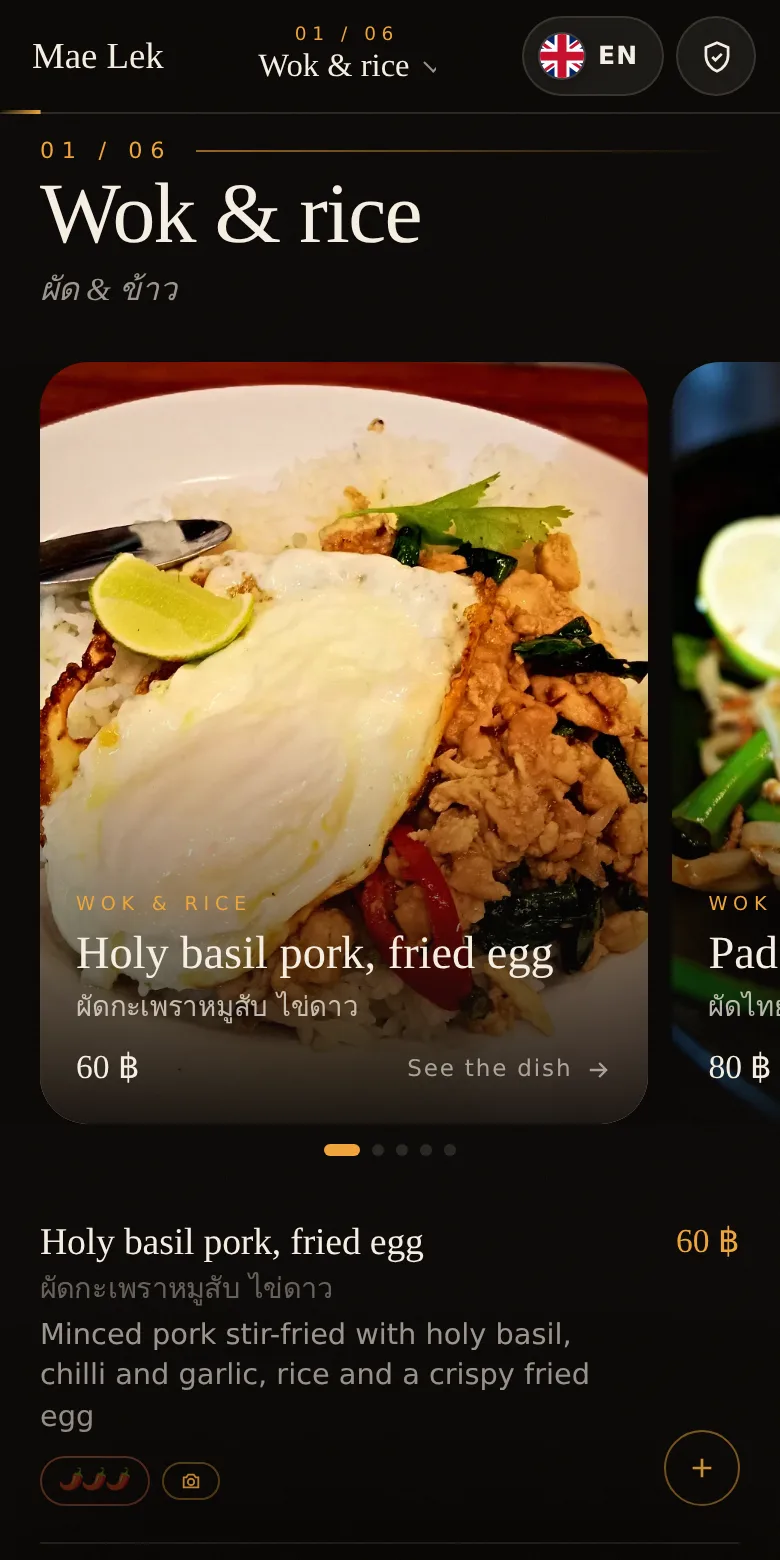
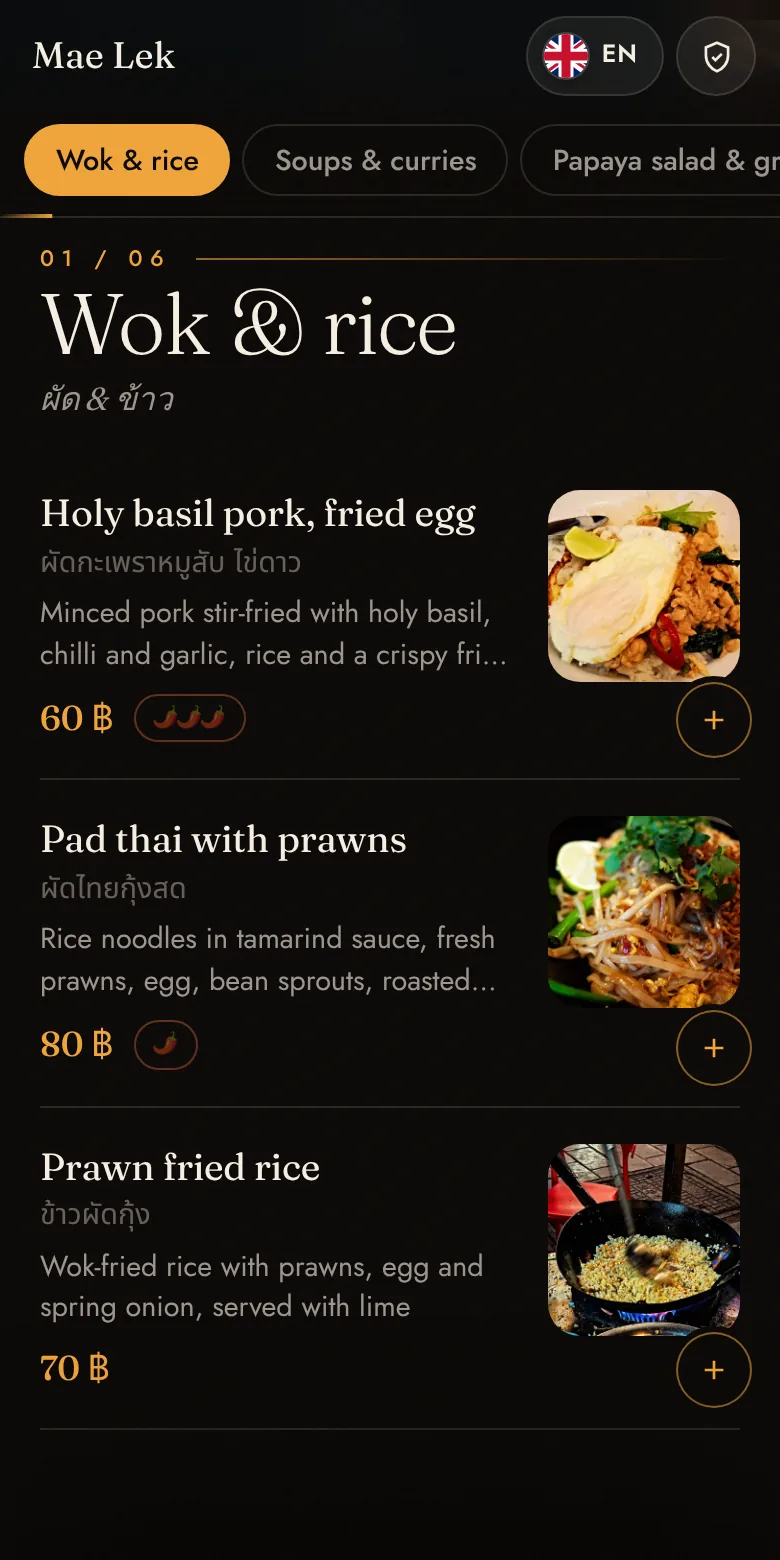
Menus QR : mise en page rangée (onglets des catégories, une ligne par plat avec sa photo carrée)
- plus de carrousels de grandes photos dans chaque catégorie ni d'icône photo sous les plats
- barre d'onglets fixe sous l'en-tête, l'onglet actif suit la lecture, toucher = aller à la catégorie
- chaque plat : nom, nom thaï, description sur 2 lignes, prix et piment ; photo carrée à droite quand elle existe ; la grande photo s'ouvre toujours en touchant le plat
- capture « après » du site thaï refaite avec le nouveau menu

Claude-Session: https://claude.ai/code/session_01C1ey47aaS4Th7SGUvJQcLG

diff --git a/menus/assets/menu.js b/menus/assets/menu.js
@@ -118,6 +118,11 @@
     return "<picture>" + (only ? '<source media="(min-width:760px)" srcset="' + w + '" sizes="680px">' : "") +
       '<img src="' + d.img + '-c-800.webp" srcset="' + c + '" sizes="(min-width:760px) 340px, 80vw" alt="" loading="lazy" decoding="async"></picture>';
   }
+  // square thumbnail in the dish row (the 4:5 card crop, centred)
+  function thumb(d) {
+    var src = M.photoHD ? d.img + "-c-800.webp" : img(d.img, 640);
+    return '<span class="dish__ph"><img src="' + src + '" alt="" width="96" height="96" loading="lazy" decoding="async"></span>';
+  }
   function sheetPic(d) {
     if (!M.photoHD) return '<img src="' + img(d.img, 1280) + '" alt="' + esc(title(d)) + '">';
     return '<img src="' + d.img + '-w-1280.webp" srcset="' + d.img + "-w-1280.webp 1280w, " + d.img + '-w-2048.webp 2048w" sizes="(min-width:760px) 560px, 100vw" alt="' + esc(title(d)) + '">';
@@ -154,26 +159,15 @@
       '<button class="hd__ch" type="button" id="hdch" aria-label="' + esc(t("menu")) + '"><small></small><span></span></button>' +
       '<div class="hd__r"><button class="ib lb" type="button" data-open="lang" aria-label="' + esc(t("lang")) + " · " + (LN[lang] || lang) + '">' + flag(lang, "round") + "<span>" + (LS[lang] || lang) + "</span></button>" +
       '<button class="ib" type="button" data-open="alg" aria-label="' + esc(t("al")) + '">' + ICO.shield + '<span class="n' + (alg.length ? " on" : "") + '" id="algn">' + alg.length + "</span></button></div>" +
+      '<nav class="tabs" id="tabs" aria-label="' + esc(t("menu")) + '">' + M.sections.map(function (s, i) { return '<button type="button" data-go="' + s.id + '"' + (i ? "" : ' class="on"') + ">" + esc(tr(s.t)) + "</button>"; }).join("") + "</nav>" +
       '<i class="prog" id="prog"></i></header>');
     // chapters
     h.push("<main>");
     M.sections.forEach(function (s, si) {
-      var feat = s.items.filter(function (d) { return d.img; });
       h.push('<section class="ch" id="' + s.id + '" data-i="' + si + '"><div class="wrap">');
       h.push('<header class="ch__h rv"><p class="ch__no">' + String(si + 1).padStart(2, "0") + " / " + String(M.sections.length).padStart(2, "0") + '</p><h2 class="ch__t">' + esc(tr(s.t)) + "</h2>" +
         (lang !== ol && s.t[ol] ? '<p class="ch__o" lang="' + ol + '">' + esc(s.t[ol]) + "</p>" : "") + "</header>");
       if (si === 0) h.push('<p class="alb">' + esc(t("alb")) + "</p>");
-      if (feat.length) {
-        h.push('<div class="feat" data-feat>');
-        feat.forEach(function (d, fi) {
-          // desktop: two-column grid; with an odd count the first card spans both columns in landscape
-          var lead = feat.length === 1 || (fi === 0 && feat.length % 2 === 1);
-          h.push('<button type="button" class="card rv' + (lead ? " card--lead" : "") + '" data-dish="' + d.id + '">' + cardPic(d, lead) +
-            '<span class="card__b"><span class="card__k">' + esc(tr(s.t)) + '</span><span class="card__n">' + esc(title(d)) + "</span>" + (sub(d) ? '<span class="card__o" lang="' + ol + '">' + esc(sub(d)) + "</span>" : "") + '<span class="card__f"><span class="card__p">' + price(d.p) + '</span><span class="card__go">' + esc(t("see")) + " " + ICO.arrow.replace("<svg", '<svg width="14" height="14"') + "</span></span></span></button>");
-        });
-        h.push("</div>");
-        if (feat.length > 1) h.push('<div class="dots2" aria-hidden="true">' + feat.map(function (_, i) { return "<i" + (i ? "" : ' class="on"') + "></i>"; }).join("") + "</div>");
-      }
       h.push('<ul class="list">');
       s.items.forEach(function (d, i) { h.push(dishRow(d, i)); });
       h.push("</ul>");
@@ -198,12 +192,13 @@
 
   function dishRow(d, i) {
     var dd = desc(d), hs = hits(d), q = sel[d.id] || 0;
-    return '<li class="dish rv' + (hs.length ? " off" : "") + '" data-row="' + d.id + '" style="--d:' + Math.min(i * 0.04, 0.2).toFixed(2) + 's">' +
+    return '<li class="dish rv' + (d.img ? " has-ph" : "") + (hs.length ? " off" : "") + '" data-row="' + d.id + '" style="--d:' + Math.min(i * 0.04, 0.2).toFixed(2) + 's">' +
       '<button class="dish__o" type="button" data-dish="' + d.id + '" aria-label="' + esc(title(d)) + '"></button>' +
-      '<span class="dish__n">' + esc(title(d)) + (sub(d) ? '<small lang="' + ol + '">' + esc(sub(d)) + "</small>" : "") + '</span><span class="dish__p">' + price(d.p) + "</span>" +
+      '<span class="dish__txt"><span class="dish__n">' + esc(title(d)) + (sub(d) ? '<small lang="' + ol + '">' + esc(sub(d)) + "</small>" : "") + "</span>" +
       (dd ? '<span class="dish__d">' + esc(dd) + "</span>" : "") +
-      '<span class="dish__m">' + hot(d) + (d.img ? '<span class="chip ph">' + ICO.cam + "</span>" : "") +
-      (hs.length ? '<span class="chip warn">' + esc(t("contains")) + " · " + hs.map(function (n) { return AI[n - 1]; }).join(" ") + "</span>" : "") + "</span>" +
+      '<span class="dish__m"><span class="dish__p">' + price(d.p) + "</span>" + hot(d) +
+      (hs.length ? '<span class="chip warn">' + esc(t("contains")) + " · " + hs.map(function (n) { return AI[n - 1]; }).join(" ") + "</span>" : "") + "</span></span>" +
+      (d.img ? thumb(d) : "") +
       '<button class="add' + (q ? " on" : "") + '" type="button" data-add="' + d.id + '" aria-label="' + esc(t("add")) + '">' + ICO.plus + '<span class="q">' + (q || "") + "</span></button></li>";
   }
 
@@ -219,13 +214,19 @@
       var max = document.documentElement.scrollHeight - H;
       prog.style.setProperty("--p", Math.max(0, Math.min(1, (y - H * 0.5) / Math.max(1, max - H * 0.5))).toFixed(3));
       var c = 0;
-      chs.forEach(function (s, i) { if (s.getBoundingClientRect().top < 120) c = i; });
+      chs.forEach(function (s, i) { if (s.getBoundingClientRect().top < 170) c = i; });
       if (c !== cur) {
         cur = c;
         var s = M.sections[c];
         hdch.querySelector("small").textContent = String(c + 1).padStart(2, "0") + " / " + String(M.sections.length).padStart(2, "0");
         hdch.querySelector("span").textContent = tr(s.t);
         hdch.classList.remove("swap"); void hdch.offsetWidth; hdch.classList.add("swap");
+        var tabs = document.getElementById("tabs"), on = tabs && tabs.children[c];
+        if (on) {
+          [].forEach.call(tabs.children, function (x) { x.classList.toggle("on", x === on); x.removeAttribute("aria-current"); });
+          on.setAttribute("aria-current", "true");
+          tabs.scrollTo({ left: on.offsetLeft - (tabs.clientWidth - on.offsetWidth) / 2, behavior: "smooth" });
+        }
       }
     };
     addEventListener("scroll", spyFn, { passive: true }); spyFn();
@@ -278,7 +279,7 @@
     }
     if (b.hasAttribute("data-areset")) { alg = []; saveAlg(); openSheet("alg"); return; }
     if (b.hasAttribute("data-q")) { add(b.getAttribute("data-q"), +b.getAttribute("data-d")); openSheet("sel"); return; }
-    if (b.hasAttribute("data-go")) { var g = document.getElementById(b.getAttribute("data-go")); closeSheet(); setTimeout(function () { scrollTo({ top: g.getBoundingClientRect().top + scrollY - 70, behavior: "smooth" }); }, 250); return; }
+    if (b.hasAttribute("data-go")) { var g = document.getElementById(b.getAttribute("data-go")); closeSheet(); setTimeout(function () { scrollTo({ top: g.getBoundingClientRect().top + scrollY - 118, behavior: "smooth" }); }, closeSheet && document.getElementById("sheet").classList.contains("on") ? 250 : 0); return; }
     if (b.hasAttribute("data-clear")) { sel = {}; saveSel(); refreshAdds(); openSheet("sel"); return; }
     if (b.hasAttribute("data-show")) { showWaiter(); return; }
     if (b.hasAttribute("data-spice")) { var k = b.getAttribute("data-spice"); spice = spice === k ? null : k; store.set(KEY + "-spice", spice || ""); b.parentNode.querySelectorAll("button").forEach(function (x) { x.setAttribute("aria-pressed", x === b && spice !== null); }); return; }

diff --git a/menus/assets/menu.css b/menus/assets/menu.css
@@ -308,3 +308,24 @@ body.alg .alb{display:block}
 .lgrid button[aria-pressed="true"] .flag{box-shadow:0 0 0 1px rgba(0,0,0,.2)}
 .lb{display:inline-flex;align-items:center;gap:7px;padding:0 12px 0 8px}
 @media (max-width:370px){.langs button{gap:7px;font-size:.98rem}.langs button .flag{width:20px;height:15px}}
+
+/* ── Tidy layout (2026-11-11): category tabs under the header, one clean row per dish with its square photo on the right ── */
+.hd__ch{visibility:hidden;pointer-events:none}
+.tabs{grid-column:1/-1;display:flex;gap:6px;overflow-x:auto;scrollbar-width:none;margin:4px -12px -2px;padding:2px 12px 4px;overscroll-behavior-x:contain}
+.tabs::-webkit-scrollbar{display:none}
+.tabs button{flex:none;min-height:36px;padding:0 15px;border-radius:99px;font:500 .9rem/1 var(--body);color:var(--mute);border:1px solid var(--line);background:transparent;white-space:nowrap;transition:background .3s,color .3s,border-color .3s}
+.tabs button.on{background:var(--accent);color:var(--bg);border-color:var(--accent)}
+.ch{scroll-margin-top:118px}
+.list{margin-top:18px}
+.dish{grid-template-columns:minmax(0,1fr) auto;gap:0 16px;padding:18px 0;align-items:start}
+.dish__txt{grid-column:1;grid-row:1;display:grid;gap:5px;min-width:0}
+.dish__d{grid-column:auto;display:-webkit-box;-webkit-line-clamp:2;-webkit-box-orient:vertical;overflow:hidden}
+.dish__m{grid-column:auto;margin-top:4px;gap:8px}
+.dish__p{text-align:left;font-size:1.08rem;margin-right:2px}
+.dish__ph{grid-column:2;grid-row:1;width:96px;height:96px;border-radius:16px;overflow:hidden;background:var(--line);transition:opacity .5s,filter .5s}
+.dish__ph img{display:block;width:100%;height:100%;object-fit:cover}
+.dish .add{grid-column:2;grid-row:1;align-self:center;justify-self:end}
+.dish.has-ph .add{align-self:end;margin:0 -6px -8px 0;background:var(--bg);box-shadow:0 0 0 3px var(--bg)}
+.dish.has-ph .add.on{background:var(--accent)}
+.dish.off .dish__ph{opacity:.3;filter:grayscale(1)}
+@media (min-width:760px){.dish__ph{width:112px;height:112px}.tabs{justify-content:center}}

diff --git a/nm/assets/js/menu-ba.js b/nm/assets/js/menu-ba.js
@@ -165,7 +165,7 @@
         '<div class="mbs__ba">' +
           '<figure class="mbs__col"><span class="mbs__tag mbs__tag--b">' + x.b + '</span><div class="mbs__pic mbs__pic--old"><img src="' + img + 'old-menu-th-520.webp" srcset="' + img + "old-menu-th-520.webp 520w, " + img + 'old-menu-th.webp 900w" sizes="(min-width: 760px) 320px, 44vw" alt="" loading="lazy" decoding="async" width="900" height="1125"></div><figcaption>' + x.bc + "</figcaption></figure>" +
           '<div class="mbs__mid">' + AR + '<figure class="mbs__qr"><span class="mbs__qrbox" id="mbsQr" role="img" aria-label="QR"></span><figcaption>' + x.q + "</figcaption></figure>" + AR + "</div>" +
-          '<figure class="mbs__col"><span class="mbs__tag mbs__tag--a">' + x.a + '</span><div class="mbs__pic mbs__phone"><img src="' + img + 'menu-after-en-390.webp" srcset="' + img + "menu-after-en-390.webp 390w, " + img + 'menu-after-en.webp 780w" sizes="(min-width: 760px) 300px, 44vw" alt="" loading="lazy" decoding="async" width="780" height="1560"></div><figcaption>' + x.ac + "</figcaption></figure>" +
+          '<figure class="mbs__col"><span class="mbs__tag mbs__tag--a">' + x.a + '</span><div class="mbs__pic mbs__phone"><img src="' + img + 'menu-after-en-390.webp?v=2" srcset="' + img + "menu-after-en-390.webp?v=2 390w, " + img + 'menu-after-en.webp?v=2 780w" sizes="(min-width: 760px) 300px, 44vw" alt="" loading="lazy" decoding="async" width="780" height="1560"></div><figcaption>' + x.ac + "</figcaption></figure>" +
         "</div>" +
         '<ol class="mbs__steps">' + x.s.map(function (s, i) { return '<li><b class="mbs__n">' + (i + 1) + "</b><span><strong>" + s[0] + "</strong>" + s[1] + "</span></li>"; }).join("") + "</ol>" +
         '<p class="mbs__cta"><a class="btn btn--sun btn--lg" href="' + MAE + "?lang=" + (l === "fr" ? "fr" : "en") + '" target="_blank" rel="noopener"><span>' + x.cta + "</span></a></p></div>";

diff --git a/menus/mae-lek/index.html b/menus/mae-lek/index.html
@@ -12,11 +12,11 @@
 <link rel="preconnect" href="https://fonts.googleapis.com">
 <link rel="preconnect" href="https://fonts.gstatic.com" crossorigin>
 <link href="https://fonts.googleapis.com/css2?family=Fraunces:ital,opsz,wght@0,9..144,300;0,9..144,400;0,9..144,500;1,9..144,400&family=Jost:wght@400;500;600;700&family=Noto+Sans+Thai:wght@400;500;600;700&display=swap" rel="stylesheet">
-<link rel="stylesheet" href="../assets/menu.css?v=12">
+<link rel="stylesheet" href="../assets/menu.css?v=14">
 </head>
 <body>
 <div id="menu"><noscript><p style="padding:40px 20px;text-align:center">Mae Lek · Menu — please enable JavaScript or ask our staff.</p></noscript></div>
 <script src="menu.js?v=12"></script>
-<script src="../assets/menu.js?v=13"></script>
+<script src="../assets/menu.js?v=14"></script>
 </body>
 </html>

diff --git a/menus/giulivo/index.html b/menus/giulivo/index.html
@@ -12,11 +12,11 @@
 <link rel="preconnect" href="https://fonts.googleapis.com">
 <link rel="preconnect" href="https://fonts.gstatic.com" crossorigin>
 <link href="https://fonts.googleapis.com/css2?family=Fraunces:ital,opsz,wght@0,9..144,300;0,9..144,400;0,9..144,500;1,9..144,400&family=Jost:wght@400;500;600;700&family=Noto+Sans+Thai:wght@400;500;600&display=swap" rel="stylesheet">
-<link rel="stylesheet" href="../assets/menu.css?v=6">
+<link rel="stylesheet" href="../assets/menu.css?v=8">
 </head>
 <body>
 <div id="menu"><noscript><p style="padding:40px 20px;text-align:center">Giulivo · Menu — please enable JavaScript or ask our staff.</p></noscript></div>
 <script src="menu.js?v=6"></script>
-<script src="../assets/menu.js?v=7"></script>
+<script src="../assets/menu.js?v=8"></script>
 </body>
 </html>

diff --git a/nm/th-fr/index.html b/nm/th-fr/index.html
@@ -679,7 +679,7 @@ document.addEventListener("click",function(e){var t=e.target;var b=t&&t.closest?
 <script defer="" src="../assets/js/perf.js?v=20261016a"></script>
 <script defer="" src="../assets/js/nm-stats.js?v=20261008v"></script>
 <script defer="" src="../assets/js/thai-offers.js?v=20261110a"></script>
-<script defer="" src="../assets/js/menu-ba.js?v=20261111a"></script>
+<script defer="" src="../assets/js/menu-ba.js?v=20261111b"></script>
 <script defer="" src="../assets/js/th-bar.js?v=20261111a"></script>
 </body>
 </html>

diff --git a/nm/th/index.html b/nm/th/index.html
@@ -706,7 +706,7 @@ document.addEventListener("click",function(e){var t=e.target;var b=t&&t.closest?
 <script defer="" src="../assets/js/perf.js?v=20261016a"></script>
 <script defer="" src="../assets/js/nm-stats.js?v=20261008v"></script>
 <script defer="" src="../assets/js/thai-offers.js?v=20261110a"></script>
-<script defer="" src="../assets/js/menu-ba.js?v=20261111a"></script>
+<script defer="" src="../assets/js/menu-ba.js?v=20261111b"></script>
 <script defer="" src="../assets/js/th-bar.js?v=20261111a"></script>
 </body>
 </html>
